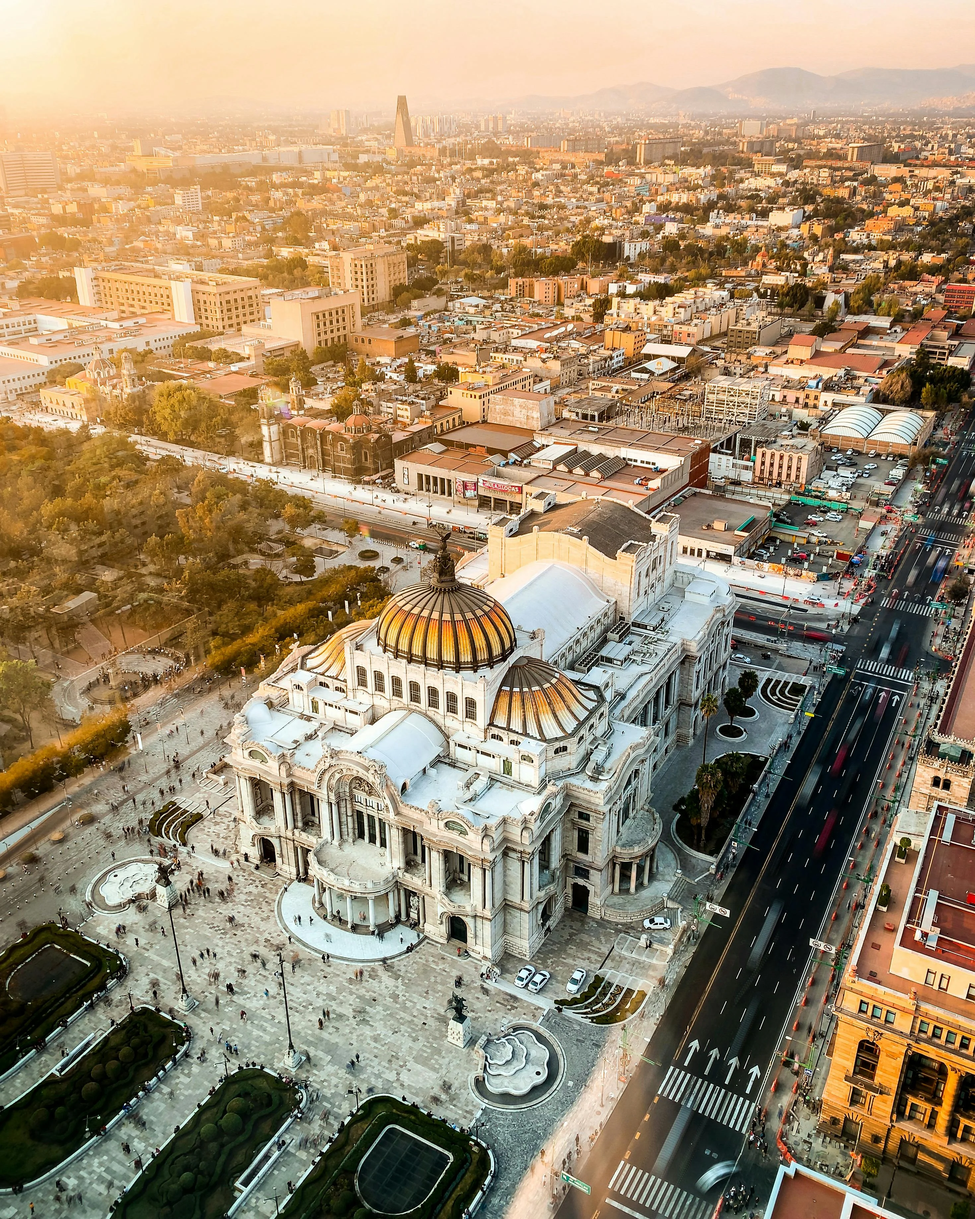
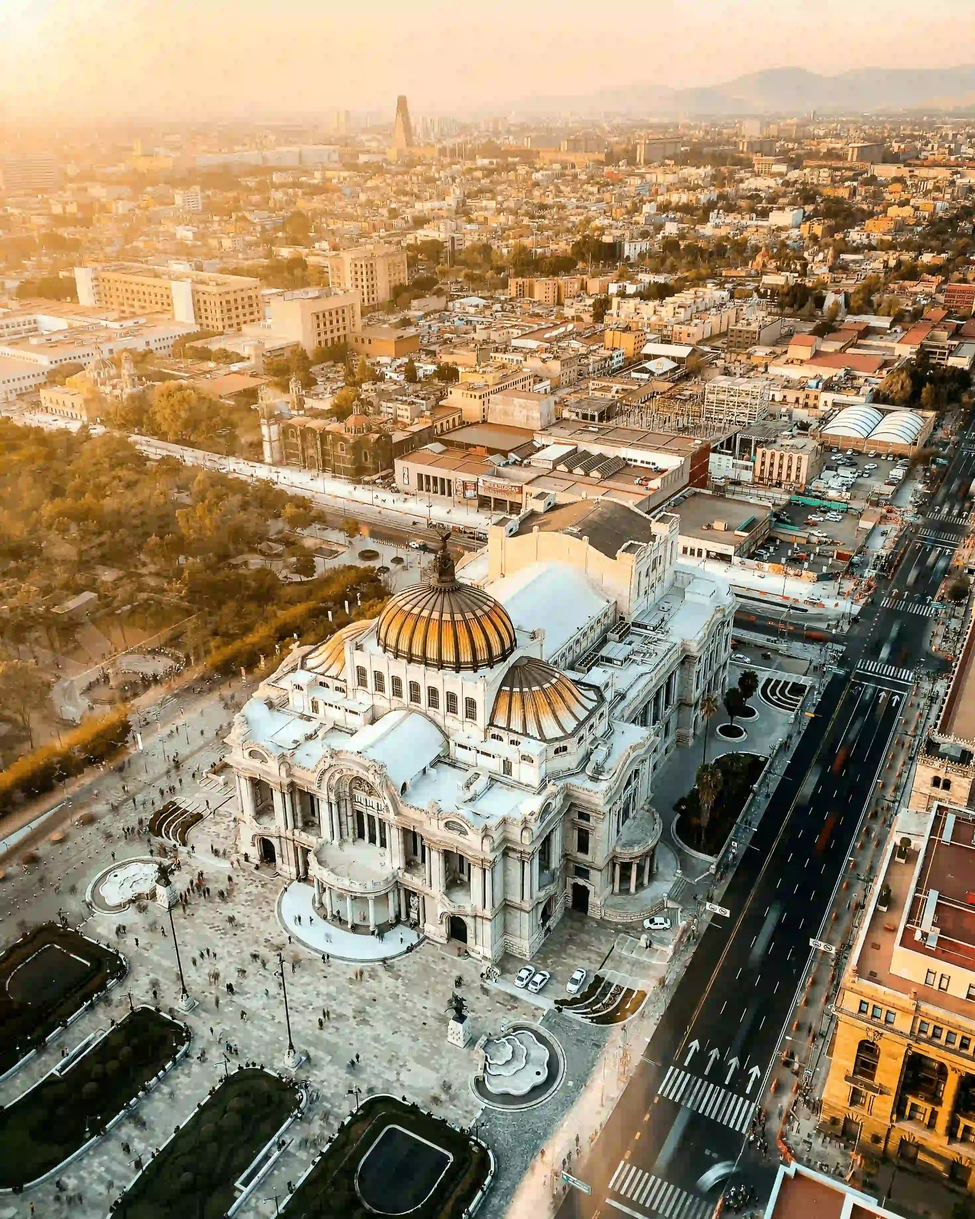
add page

diff --git a/place.html b/place.html
@@ -14,9 +14,9 @@
 
   <main class="full-hero">
     <picture class="hero-bg">
-      <source srcset="images/bellas-artes.webp" media="(min-width: 600px)" />
-      <img src="images/angel-inde.webp" alt="Panoramic view of Mexico City" />
-    </picture>
+      <source srcset="images/bellas-artes.webp" media="(min-width: 1000px)">
+    <source srcset="images/bellas-artes-medium.webp" media="(min-width: 600px)">
+    <img src="images/angel-inde.webp" alt="Panoramic view of Mexico City" width="400" height="600" loading="eager">
 
     <div class="floating-panel data-panel">
       <h2>Data</h2>
